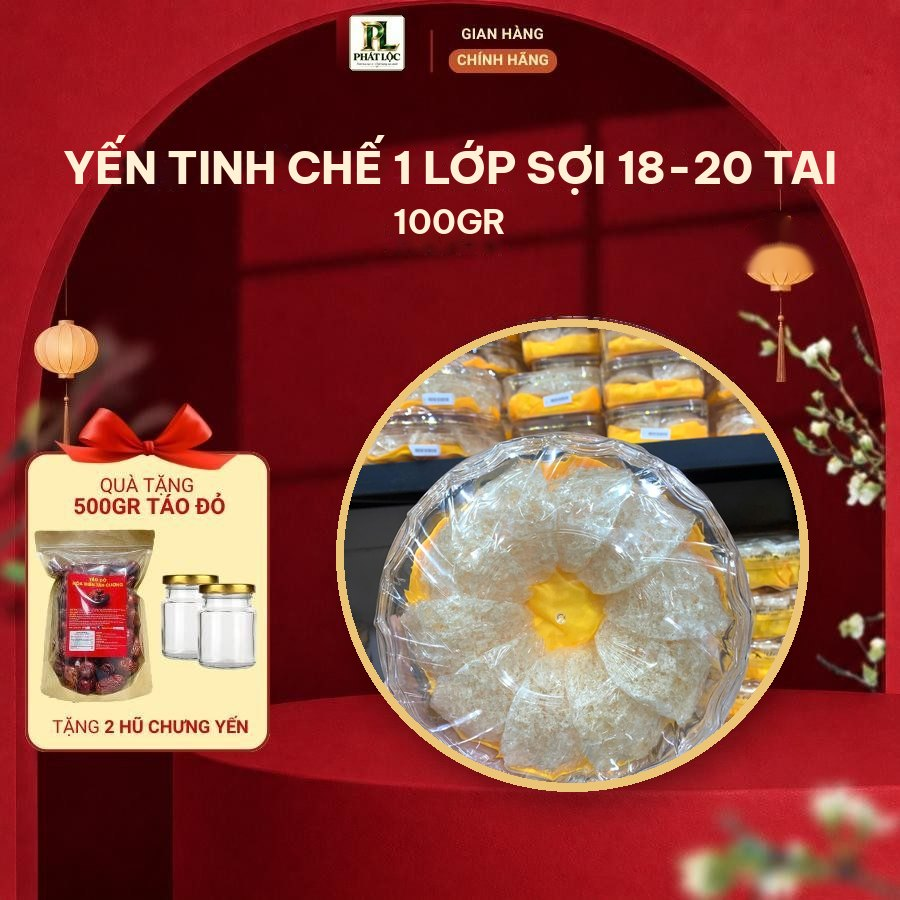
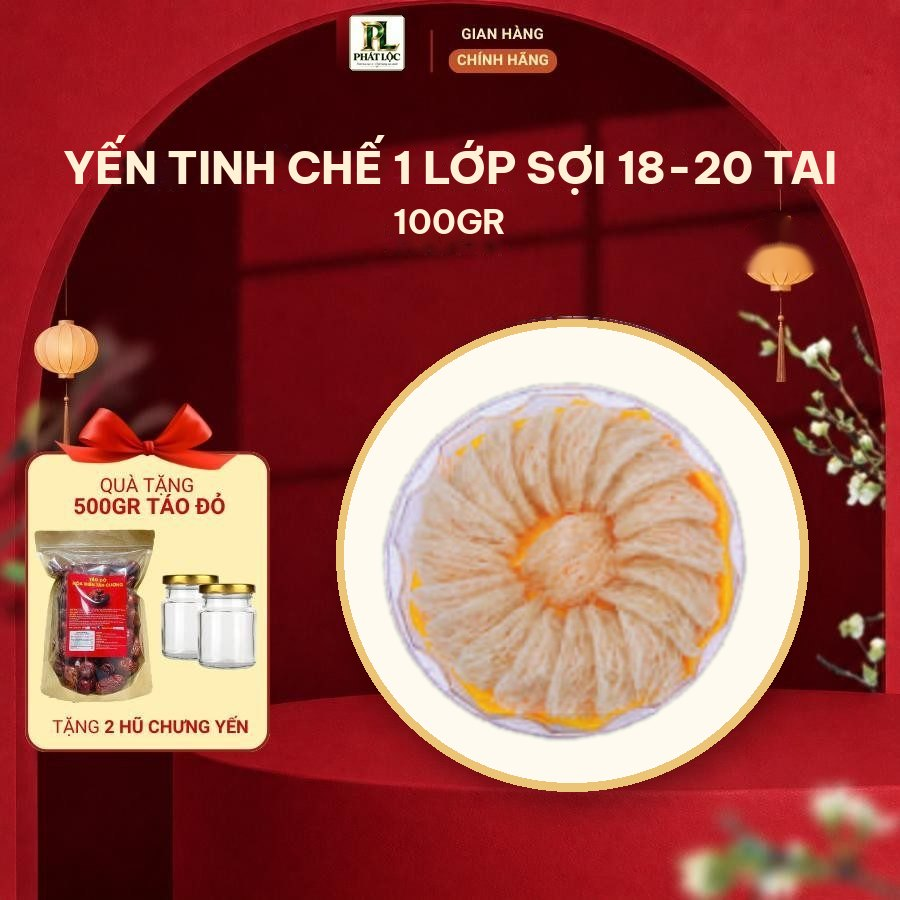
Sửa ảnh sai cho 111, 125, 132, 133
111 dùng ảnh 1 lớp sợi 18-20 tai thay ảnh vụn; 125 dùng ảnh hũ 200ml; 132, 133
dùng ảnh lốc 6 hũ VCN Nest thay ảnh hộp quà khác. IMG_V lên v=8.

Claude-Session: https://claude.ai/code/session_01UhDdGQ9quzkXf97RrXqye8

Changed region(s): [[0.3733, 0.3422, 0.9022, 0.8711]]

diff --git a/index.html b/index.html
@@ -434,7 +434,7 @@ const IMG = {
   108: ["khung/108.jpg", "that/yen-tinh-che-soi-ngan-sach.jpg", "yen-tinh-che-soi-ngan-1.jpg", "yen-tinh-che-soi-ngan-2.jpg", "yen-tinh-che-soi-ngan-3.jpg", "catalog/tinh-che-soi-ngan-dau-chan.jpg"],
   109: ["khung/109.jpg", "that/tinh-che-1-lop-soi-vua-that-1.jpg", "catalog/tinh-che-1-lop-soi-vua.jpg"],
   110: ["khung/110.jpg", "catalog/tinh-che-1-lop-soi-10-tai.jpg"],
-  111: ["khung/111.jpg", "that/tinh-che-18-20-tai-that-1.jpg", "catalog/tinh-che-1-lop-soi-18-20-tai.jpg"],
+  111: ["khung/111.jpg", "catalog/tinh-che-1-lop-soi-18-20-tai.jpg"],
   112: ["khung/112.jpg", "catalog/tinh-che-2-lop-soi.jpg"],
   113: ["khung/113.jpg", "that/yen-rut-long-dap-to-sach.jpg", "yen-rut-long-dap-to-1.jpg", "yen-rut-long-dap-to-2.jpg", "yen-rut-long-dap-to-3.jpg", "catalog/rut-long-dap-to.jpg"],
   114: ["khung/114.jpg", "that/rut-long-dinh-hinh-that-1.jpg", "catalog/rut-long-dinh-hinh.jpg"],
@@ -448,15 +448,15 @@ const IMG = {
   122: ["khung/122.jpg", "catalog/dap-mieng-soi-vuong.jpg"],
   123: ["khung/123.jpg", "catalog/vuong-mieng-lon.jpg"],
   124: ["khung/124.jpg", "that/nuoc-yen-chung-duong-phen.jpg", "that/nuoc-yen-chung-cho-be.jpg", "that/nuoc-yen-chung-cho-me-bau.jpg", "catalog/yen-chung-thu-cong-70ml.jpg"],
-  125: ["khung/125.jpg", "that/nuoc-yen-chung-thu-cong-that-1.jpg", "catalog/yen-chung-thu-cong-200ml.jpg"],
+  125: ["khung/125.jpg", "catalog/yen-chung-thu-cong-200ml.jpg"],
   126: ["khung/126.jpg", "catalog/vcn-nest-0-3gr.jpg"],
   127: ["khung/127.jpg", "catalog/vcn-nest-0-8gr.jpg"],
   128: ["khung/128.jpg", "catalog/vcn-nest-loc-6-0-3gr.jpg"],
   129: ["khung/129.jpg", "catalog/vcn-nest-loc-6-0-3gr.jpg"],
   130: ["khung/130.jpg", "catalog/vcn-nest-loc-10-0-3gr.jpg"],
   131: ["khung/131.jpg", "catalog/vcn-nest-loc-10-0-3gr.jpg"],
-  132: ["khung/132.jpg", "catalog/vcn-nest-loc-6-hop-0-3gr.jpg"],
-  133: ["khung/133.jpg", "catalog/vcn-nest-loc-6-hop-0-3gr.jpg"],
+  132: ["khung/132.jpg", "catalog/vcn-nest-loc-6-0-3gr.jpg"],
+  133: ["khung/133.jpg", "catalog/vcn-nest-loc-6-0-3gr.jpg"],
   134: ["khung/134.jpg", "catalog/vcn-nest-loc-10-hop-0-3gr.jpg"],
   135: ["khung/135.jpg", "catalog/vcn-nest-loc-10-hop-0-3gr.jpg"],
   136: ["khung/136.jpg", "dong-trung-ha-thao-5.jpg", "dong-trung-ha-thao-1.jpg", "dong-trung-ha-thao-4.jpg", "catalog/nam-dong-trung-loai-cay-100gr.jpg"],
@@ -535,7 +535,7 @@ const SETS = [
 ];
 const DIR = "images/san-pham/";
 // Đổi số phiên bản khi thay ảnh catalog để trình duyệt tải ảnh mới thay vì ảnh cũ đã lưu.
-const IMG_V = "?v=7";
+const IMG_V = "?v=8";
 const full = f => DIR + f + (/^(catalog|that|khung)\//.test(f) ? IMG_V : "");
 const thumb = f => /^(catalog|that)\//.test(f) ? full(f) : DIR + "nho/" + f + (/^khung\//.test(f) ? IMG_V : "");
 const lb = document.getElementById("lb"), lbImg = document.getElementById("lb-img");
